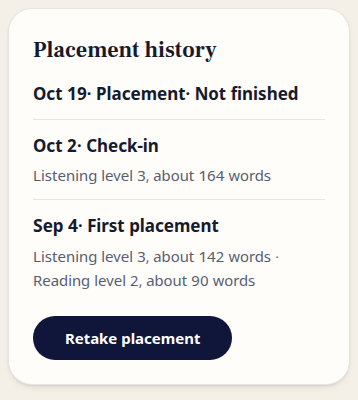
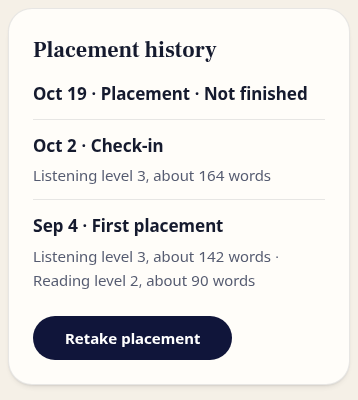
Space the separators in placement history rows
Templ was dropping the space before each middot, so every history
title read "Oct 19· Placement". Keep both spaces, and pin the
Check-in, First placement, and level rows to the spaced titles.

diff --git a/internal/web/views/progress_templ.go b/internal/web/views/progress_templ.go
@@ -1339,7 +1339,20 @@ func placementCard2(v ProgressView) templ.Component {
 				if templ_7745c5c3_Err != nil {
 					return templ_7745c5c3_Err
 				}
-				templ_7745c5c3_Err = templruntime.WriteString(templ_7745c5c3_Buffer, 131, "<span aria-hidden=\"true\">· </span>")
+				templ_7745c5c3_Err = templruntime.WriteString(templ_7745c5c3_Buffer, 131, "<span aria-hidden=\"true\">")
+				if templ_7745c5c3_Err != nil {
+					return templ_7745c5c3_Err
+				}
+				var templ_7745c5c3_Var35 string
+				templ_7745c5c3_Var35, templ_7745c5c3_Err = templ.JoinStringErrs(" · ")
+				if templ_7745c5c3_Err != nil {
+					return templ.Error{Err: templ_7745c5c3_Err, FileName: `internal/web/views/progress.templ`, Line: 268, Col: 40}
+				}
+				_, templ_7745c5c3_Err = templ_7745c5c3_Buffer.WriteString(templ.EscapeString(templ_7745c5c3_Var35))
+				if templ_7745c5c3_Err != nil {
+					return templ_7745c5c3_Err
+				}
+				templ_7745c5c3_Err = templruntime.WriteString(templ_7745c5c3_Buffer, 132, "</span>")
 				if templ_7745c5c3_Err != nil {
 					return templ_7745c5c3_Err
 				}
@@ -1348,7 +1361,20 @@ func placementCard2(v ProgressView) templ.Component {
 					return templ_7745c5c3_Err
 				}
 				if r.Level != "" {
-					templ_7745c5c3_Err = templruntime.WriteString(templ_7745c5c3_Buffer, 132, "<span aria-hidden=\"true\">· </span>")
+					templ_7745c5c3_Err = templruntime.WriteString(templ_7745c5c3_Buffer, 133, "<span aria-hidden=\"true\">")
+					if templ_7745c5c3_Err != nil {
+						return templ_7745c5c3_Err
+					}
+					var templ_7745c5c3_Var36 string
+					templ_7745c5c3_Var36, templ_7745c5c3_Err = templ.JoinStringErrs(" · ")
+					if templ_7745c5c3_Err != nil {
+						return templ.Error{Err: templ_7745c5c3_Err, FileName: `internal/web/views/progress.templ`, Line: 271, Col: 41}
+					}
+					_, templ_7745c5c3_Err = templ_7745c5c3_Buffer.WriteString(templ.EscapeString(templ_7745c5c3_Var36))
+					if templ_7745c5c3_Err != nil {
+						return templ_7745c5c3_Err
+					}
+					templ_7745c5c3_Err = templruntime.WriteString(templ_7745c5c3_Buffer, 134, "</span>")
 					if templ_7745c5c3_Err != nil {
 						return templ_7745c5c3_Err
 					}
@@ -1357,12 +1383,12 @@ func placementCard2(v ProgressView) templ.Component {
 						return templ_7745c5c3_Err
 					}
 				}
-				templ_7745c5c3_Err = templruntime.WriteString(templ_7745c5c3_Buffer, 133, "</p>")
+				templ_7745c5c3_Err = templruntime.WriteString(templ_7745c5c3_Buffer, 135, "</p>")
 				if templ_7745c5c3_Err != nil {
 					return templ_7745c5c3_Err
 				}
 				if r.Detail != "" {
-					templ_7745c5c3_Err = templruntime.WriteString(templ_7745c5c3_Buffer, 134, "<p class=\"pplace__detail\">")
+					templ_7745c5c3_Err = templruntime.WriteString(templ_7745c5c3_Buffer, 136, "<p class=\"pplace__detail\">")
 					if templ_7745c5c3_Err != nil {
 						return templ_7745c5c3_Err
 					}
@@ -1370,17 +1396,17 @@ func placementCard2(v ProgressView) templ.Component {
 					if templ_7745c5c3_Err != nil {
 						return templ_7745c5c3_Err
 					}
-					templ_7745c5c3_Err = templruntime.WriteString(templ_7745c5c3_Buffer, 135, "</p>")
+					templ_7745c5c3_Err = templruntime.WriteString(templ_7745c5c3_Buffer, 137, "</p>")
 					if templ_7745c5c3_Err != nil {
 						return templ_7745c5c3_Err
 					}
 				}
-				templ_7745c5c3_Err = templruntime.WriteString(templ_7745c5c3_Buffer, 136, "</li>")
+				templ_7745c5c3_Err = templruntime.WriteString(templ_7745c5c3_Buffer, 138, "</li>")
 				if templ_7745c5c3_Err != nil {
 					return templ_7745c5c3_Err
 				}
 			}
-			templ_7745c5c3_Err = templruntime.WriteString(templ_7745c5c3_Buffer, 137, "</ol>")
+			templ_7745c5c3_Err = templruntime.WriteString(templ_7745c5c3_Buffer, 139, "</ol>")
 			if templ_7745c5c3_Err != nil {
 				return templ_7745c5c3_Err
 			}
@@ -1389,7 +1415,7 @@ func placementCard2(v ProgressView) templ.Component {
 		if templ_7745c5c3_Err != nil {
 			return templ_7745c5c3_Err
 		}
-		templ_7745c5c3_Err = templruntime.WriteString(templ_7745c5c3_Buffer, 138, "</section>")
+		templ_7745c5c3_Err = templruntime.WriteString(templ_7745c5c3_Buffer, 140, "</section>")
 		if templ_7745c5c3_Err != nil {
 			return templ_7745c5c3_Err
 		}
@@ -1415,38 +1441,38 @@ func retakePlacement(v ProgressView) templ.Component {
 			}()
 		}
 		ctx = templ.InitializeContext(ctx)
-		templ_7745c5c3_Var35 := templ.GetChildren(ctx)
-		if templ_7745c5c3_Var35 == nil {
-			templ_7745c5c3_Var35 = templ.NopComponent
+		templ_7745c5c3_Var37 := templ.GetChildren(ctx)
+		if templ_7745c5c3_Var37 == nil {
+			templ_7745c5c3_Var37 = templ.NopComponent
 		}
 		ctx = templ.ClearChildren(ctx)
-		templ_7745c5c3_Err = templruntime.WriteString(templ_7745c5c3_Buffer, 139, "<form class=\"pplace__retake\" method=\"post\" action=\"")
+		templ_7745c5c3_Err = templruntime.WriteString(templ_7745c5c3_Buffer, 141, "<form class=\"pplace__retake\" method=\"post\" action=\"")
 		if templ_7745c5c3_Err != nil {
 			return templ_7745c5c3_Err
 		}
-		var templ_7745c5c3_Var36 templ.SafeURL
-		templ_7745c5c3_Var36, templ_7745c5c3_Err = templ.JoinURLErrs(templ.SafeURL("/_hx/placement/start"))
+		var templ_7745c5c3_Var38 templ.SafeURL
+		templ_7745c5c3_Var38, templ_7745c5c3_Err = templ.JoinURLErrs(templ.SafeURL("/_hx/placement/start"))
 		if templ_7745c5c3_Err != nil {
 			return templ.Error{Err: templ_7745c5c3_Err, FileName: `internal/web/views/progress.templ`, Line: 289, Col: 90}
 		}
-		_, templ_7745c5c3_Err = templ_7745c5c3_Buffer.WriteString(templ.EscapeString(templ_7745c5c3_Var36))
+		_, templ_7745c5c3_Err = templ_7745c5c3_Buffer.WriteString(templ.EscapeString(templ_7745c5c3_Var38))
 		if templ_7745c5c3_Err != nil {
 			return templ_7745c5c3_Err
 		}
-		templ_7745c5c3_Err = templruntime.WriteString(templ_7745c5c3_Buffer, 140, "\" hx-post=\"/_hx/placement/start\" hx-target=\"#placement\" hx-swap=\"outerHTML transition:true\" hx-select=\"unset\" hx-boost=\"false\" hx-sync=\"this:drop\"><input type=\"hidden\" name=\"_csrf\" value=\"")
+		templ_7745c5c3_Err = templruntime.WriteString(templ_7745c5c3_Buffer, 142, "\" hx-post=\"/_hx/placement/start\" hx-target=\"#placement\" hx-swap=\"outerHTML transition:true\" hx-select=\"unset\" hx-boost=\"false\" hx-sync=\"this:drop\"><input type=\"hidden\" name=\"_csrf\" value=\"")
 		if templ_7745c5c3_Err != nil {
 			return templ_7745c5c3_Err
 		}
-		var templ_7745c5c3_Var37 string
-		templ_7745c5c3_Var37, templ_7745c5c3_Err = templ.JoinStringErrs(v.CSRF)
+		var templ_7745c5c3_Var39 string
+		templ_7745c5c3_Var39, templ_7745c5c3_Err = templ.JoinStringErrs(v.CSRF)
 		if templ_7745c5c3_Err != nil {
 			return templ.Error{Err: templ_7745c5c3_Err, FileName: `internal/web/views/progress.templ`, Line: 290, Col: 50}
 		}
-		_, templ_7745c5c3_Err = templ_7745c5c3_Buffer.WriteString(templ.EscapeString(templ_7745c5c3_Var37))
+		_, templ_7745c5c3_Err = templ_7745c5c3_Buffer.WriteString(templ.EscapeString(templ_7745c5c3_Var39))
 		if templ_7745c5c3_Err != nil {
 			return templ_7745c5c3_Err
 		}
-		templ_7745c5c3_Err = templruntime.WriteString(templ_7745c5c3_Buffer, 141, "\"> <button type=\"submit\" class=\"btn btn-primary\">")
+		templ_7745c5c3_Err = templruntime.WriteString(templ_7745c5c3_Buffer, 143, "\"> <button type=\"submit\" class=\"btn btn-primary\">")
 		if templ_7745c5c3_Err != nil {
 			return templ_7745c5c3_Err
 		}
@@ -1454,7 +1480,7 @@ func retakePlacement(v ProgressView) templ.Component {
 		if templ_7745c5c3_Err != nil {
 			return templ_7745c5c3_Err
 		}
-		templ_7745c5c3_Err = templruntime.WriteString(templ_7745c5c3_Buffer, 142, "</button></form>")
+		templ_7745c5c3_Err = templruntime.WriteString(templ_7745c5c3_Buffer, 144, "</button></form>")
 		if templ_7745c5c3_Err != nil {
 			return templ_7745c5c3_Err
 		}

diff --git a/internal/web/progress_test.go b/internal/web/progress_test.go
@@ -664,6 +664,12 @@ func TestPlacementHistoryListsEachRunWithItsLevels(t *testing.T) {
 	if !strings.Contains(first, "Sep 4") || !strings.Contains(first, "First placement") || !strings.Contains(first, "Listening level 3, about 142 words") || !strings.Contains(first, "Reading level 2, about 90 words") {
 		t.Errorf("first placement row:\n%s", first)
 	}
+	if got := placementTitle(t, check); got != "Oct 2 · Check-in" {
+		t.Errorf("check-in title %q", got)
+	}
+	if got := placementTitle(t, first); got != "Sep 4 · First placement" {
+		t.Errorf("first placement title %q", got)
+	}
 }
 
 func TestPlacementHistoryEmptyStateSaysWhatToDo(t *testing.T) {
@@ -854,17 +860,48 @@ func TestPlacementUnfinishedLevelSaysNotFinished(t *testing.T) {
 		return ""
 	}
 	unfinished := row("Oct 19")
-	if !strings.Contains(unfinished, "Not finished") || strings.Contains(unfinished, "Level") {
-		t.Fatalf("unfinished placement:\n%s", unfinished)
+	if got := placementTitle(t, unfinished); got != "Oct 19 · Placement · Not finished" {
+		t.Fatalf("unfinished placement title %q", got)
 	}
 	normal := row("Sep 3")
-	if !strings.Contains(normal, "Level "+strconv.Itoa(normalLevel)) || strings.Contains(normal, "Not finished") {
-		t.Fatalf("finished placement:\n%s", normal)
+	if got := placementTitle(t, normal); got != "Sep 3 · Placement · Level "+strconv.Itoa(normalLevel) {
+		t.Fatalf("finished placement title %q", got)
 	}
 	zero := row("Aug 2")
-	if !strings.Contains(zero, "Level 0") || strings.Contains(zero, "Not finished") {
-		t.Fatalf("level 0 placement:\n%s", zero)
+	if got := placementTitle(t, zero); got != "Aug 2 · Placement · Level 0" {
+		t.Fatalf("level 0 placement title %q", got)
 	}
+}
+
+// placementTitle is the visible title of one history row, with the tags removed.
+func placementTitle(t *testing.T, item string) string {
+	t.Helper()
+	const open = `<p class="pplace__title">`
+	i := strings.Index(item, open)
+	if i < 0 {
+		t.Fatalf("no placement title:\n%s", item)
+	}
+	rest := item[i+len(open):]
+	j := strings.Index(rest, "</p>")
+	if j < 0 {
+		t.Fatalf("placement title is not closed:\n%s", item)
+	}
+	inner := rest[:j]
+	var b strings.Builder
+	for {
+		start := strings.IndexByte(inner, '<')
+		if start < 0 {
+			b.WriteString(inner)
+			break
+		}
+		b.WriteString(inner[:start])
+		end := strings.IndexByte(inner[start:], '>')
+		if end < 0 {
+			t.Fatalf("unclosed tag in placement title:\n%s", item)
+		}
+		inner = inner[start+end+1:]
+	}
+	return b.String()
 }
 
 func insertPlacementLevel(t *testing.T, store *db.Store, userID int64, at time.Time, level int) {
